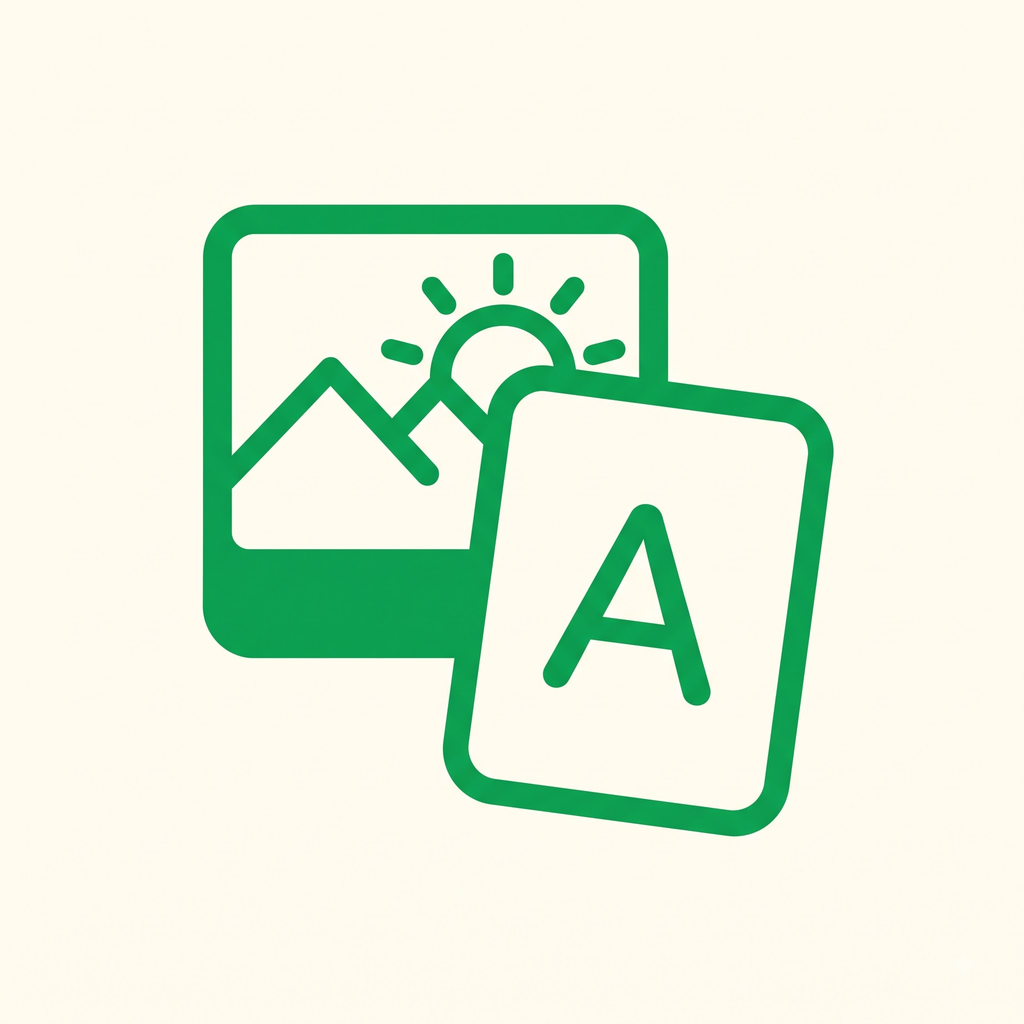
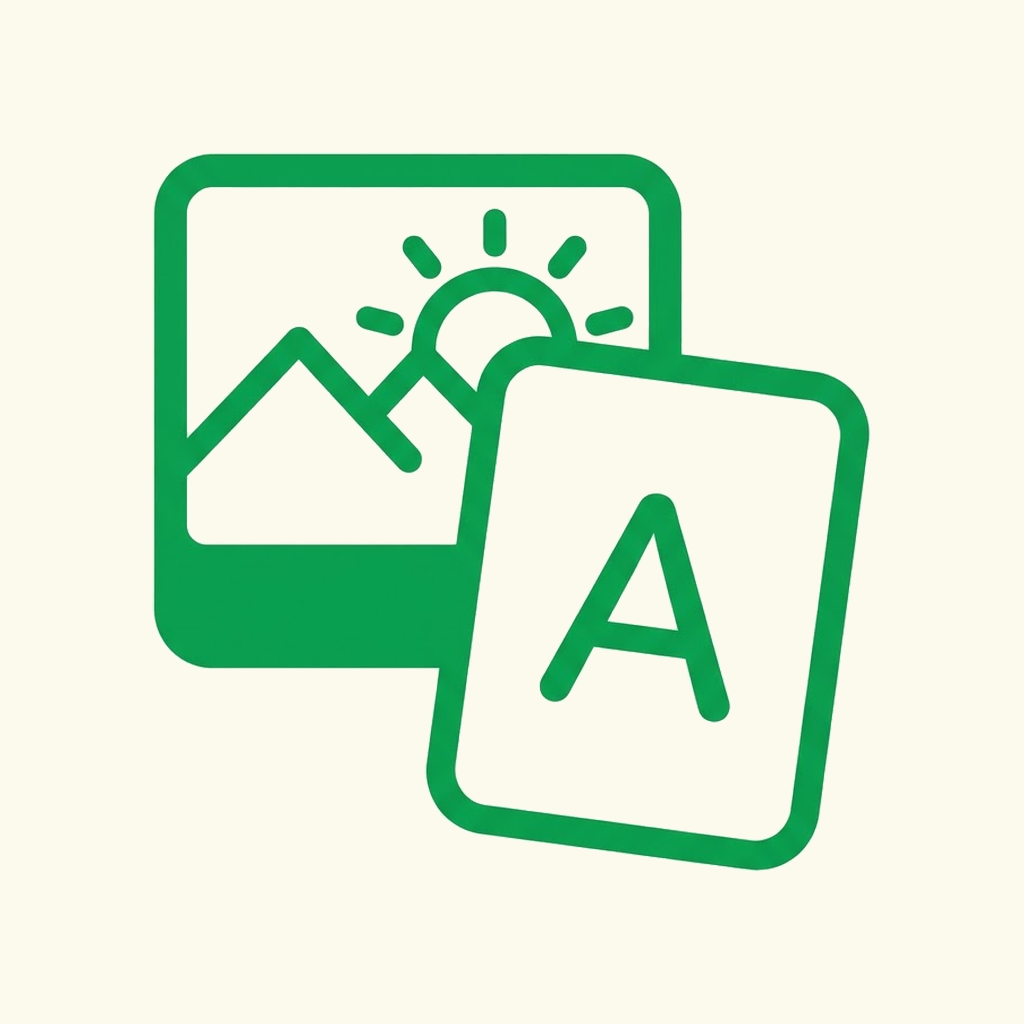
feat: 브랜딩 에셋 최적화, 스트릭 카드/UI 레이아웃 개선 및 E2E QA 검증 완료

Changed region(s): [[0.125, 0.125, 0.875, 0.875], [0.5312, 0.4688, 0.7188, 0.7188]]

diff --git a/src/features/home/components/ReviewWordsCard.tsx b/src/features/home/components/ReviewWordsCard.tsx
@@ -92,27 +92,29 @@ export const ReviewWordsCard: React.FC<ReviewWordsCardProps> = ({ theme, words, 
                   accessibilityLabel={word.wordTarget}
                   onLayout={(e) => idx === 0 && console.log('[LayoutTrace] first wordCardInner layout:', e.nativeEvent.layout)}
                 >
-                  <View style={[styles.statusDot, { backgroundColor: theme.primary }]} />
-                  <View style={styles.imageFrame} onLayout={(e) => idx === 0 && console.log('[LayoutTrace] first imageFrame layout:', e.nativeEvent.layout)}>
-                    {imageUrl ? (
-                      <Image
-                        source={{ uri: imageUrl }}
-                        style={styles.image}
-                        resizeMode="contain"
-                        onError={(event) => console.warn('[ReviewWordsCard IMAGE FAILED]', {
-                          imageUrl,
-                          error: event.nativeEvent?.error,
-                        })}
-                      />
-                    ) : null}
-                  </View>
-                  <View style={styles.textContent}>
-                    <Typography variant="cardTitle" numberOfLines={1} style={[styles.wordTargetTitle, { color: theme.textPrimary }]}>
-                      {word.wordTarget}
-                    </Typography>
-                    <Typography variant="caption" numberOfLines={1} style={[styles.wordNativeText, { color: theme.textSecondary }]}>
-                      {word.wordNative}
-                    </Typography>
+                  <View style={styles.wordCardContent}>
+                    <View style={[styles.statusDot, { backgroundColor: theme.primary }]} />
+                    <View style={styles.imageFrame} onLayout={(e) => idx === 0 && console.log('[LayoutTrace] first imageFrame layout:', e.nativeEvent.layout)}>
+                      {imageUrl ? (
+                        <Image
+                          source={{ uri: imageUrl }}
+                          style={styles.image}
+                          resizeMode="contain"
+                          onError={(event) => console.warn('[ReviewWordsCard IMAGE FAILED]', {
+                            imageUrl,
+                            error: event.nativeEvent?.error,
+                          })}
+                        />
+                      ) : null}
+                    </View>
+                    <View style={styles.textContent}>
+                      <Typography variant="cardTitle" numberOfLines={1} style={[styles.wordTargetTitle, { color: theme.textPrimary }]}>
+                        {word.wordTarget}
+                      </Typography>
+                      <Typography variant="caption" numberOfLines={1} style={[styles.wordNativeText, { color: theme.textSecondary }]}>
+                        {word.wordNative}
+                      </Typography>
+                    </View>
                   </View>
                 </Pressable>
               </View>
@@ -164,9 +166,11 @@ const styles = StyleSheet.create({
     position: 'relative',
   },
   wordCardInner: {
-    padding: 10,
     borderRadius: 16,
     overflow: 'hidden',
+  },
+  wordCardContent: {
+    padding: 10,
   },
   statusDot: {
     position: 'absolute',

diff --git a/src/shared/components/BottomTabBar.tsx b/src/shared/components/BottomTabBar.tsx
@@ -3,7 +3,8 @@ import { useTranslation } from 'react-i18next';
 import {
   View,
   StyleSheet,
-  TouchableOpacity,
+  Pressable,
+  Platform,
   ViewStyle,
 } from 'react-native';
 import { SafeAreaView } from 'react-native-safe-area-context';
@@ -42,11 +43,17 @@ export const BottomTabBar: React.FC<BottomTabBarProps> = React.memo(({
 }) => {
   const { t } = useTranslation();
   const theme = useThemeStore((state) => state.theme);
+  const isDarkMode = useThemeStore((state) => state.isDarkMode);
   const { isLandscape } = useWindowSizeClass();
 
   return (
-    <SafeAreaView edges={['bottom']} style={[styles.safeArea, { backgroundColor: theme.cardBackground }]}>
+    <SafeAreaView
+      edges={['bottom']}
+      pointerEvents="box-none"
+      style={[styles.safeArea, { backgroundColor: theme.cardBackground }]}
+    >
       <View
+        pointerEvents="box-none"
         style={[
           styles.container,
           isLandscape && styles.containerLandscape,
@@ -63,16 +70,24 @@ export const BottomTabBar: React.FC<BottomTabBarProps> = React.memo(({
           const iconColor = isActive ? theme.primary : theme.textSecondary;
 
           return (
-            <TouchableOpacity
+            <Pressable
               key={item.id}
-              style={styles.tabButton}
-              activeOpacity={0.7}
+              hitSlop={{ top: 8, bottom: 8, left: 6, right: 6 }}
+              style={({ pressed }) => [
+                styles.tabButton,
+                pressed && Platform.OS !== 'android' && { opacity: 0.7 },
+              ]}
+              android_ripple={{
+                color: isDarkMode ? 'rgba(255, 255, 255, 0.12)' : 'rgba(0, 0, 0, 0.08)',
+                borderless: true,
+                radius: 36,
+              }}
               onPress={() => onTabPress(item.id)}
               accessibilityRole="button"
               accessibilityState={{ selected: isActive }}
               accessibilityLabel={t(item.label)}
             >
-              <View style={styles.iconContainer}>
+              <View style={styles.iconContainer} pointerEvents="none">
                 <IconComponent
                   size={23}
                   color={iconColor}
@@ -91,10 +106,11 @@ export const BottomTabBar: React.FC<BottomTabBarProps> = React.memo(({
                     fontWeight: isActive ? '700' : '500',
                   },
                 ]}
+                pointerEvents="none"
               >
                 {t(item.label)}
               </Typography>
-            </TouchableOpacity>
+            </Pressable>
           );
         })}
       </View>
@@ -122,7 +138,7 @@ const styles = StyleSheet.create({
     borderTopLeftRadius: 24,
     borderTopRightRadius: 24,
     borderTopWidth: 1,
-    overflow: 'hidden',
+    overflow: Platform.OS === 'android' ? 'visible' : 'hidden',
     shadowColor: '#2F3437',
     shadowOffset: { width: 0, height: -4 },
     shadowOpacity: 0.06,

diff --git a/src/shared/components/Logo.tsx b/src/shared/components/Logo.tsx
@@ -1,47 +1,25 @@
 import React from 'react';
-import { ViewStyle } from 'react-native';
-import Svg, { Path } from 'react-native-svg';
+import { Image, ImageStyle, StyleProp } from 'react-native';
 
 interface LogoProps {
   width?: number;
   height?: number;
-  style?: ViewStyle;
+  style?: StyleProp<ImageStyle>;
+  resizeMode?: 'contain' | 'cover' | 'center' | 'stretch';
 }
 
 export const Logo: React.FC<LogoProps> = ({
   width = 180,
   height = 150,
   style,
+  resizeMode = 'contain',
 }) => {
   return (
-    <Svg
-      width={width}
-      height={height}
-      viewBox="0 0 475 401"
-      fill="none"
-      style={style}
-    >
-      <Path
-        d="M20 118V103C20 49 64 20 115 20H367C412 20 439 53 412 97L306 263C287 293 305 283 330 283H455"
-        stroke="#3F7D58"
-        strokeWidth={40}
-        strokeLinecap="round"
-        strokeLinejoin="round"
-      />
-      <Path
-        d="M20 118H131C156 118 165 138 151 159L63 294C41 328 54 380 112 380"
-        stroke="#3F7D58"
-        strokeWidth={40}
-        strokeLinecap="round"
-        strokeLinejoin="round"
-      />
-      <Path
-        d="M284 119L158 309C137 340 157 381 198 381H338C402 381 446 341 455 283"
-        stroke="#3F7D58"
-        strokeWidth={40}
-        strokeLinecap="round"
-        strokeLinejoin="round"
-      />
-    </Svg>
+    <Image
+      source={require('../../../assets/images/adaptive-icon.png')}
+      style={[{ width, height }, style]}
+      resizeMode={resizeMode}
+    />
   );
 };
+

diff --git a/src/shared/components/GuestAuthModal.tsx b/src/shared/components/GuestAuthModal.tsx
@@ -68,7 +68,7 @@ export const GuestAuthModal: React.FC<GuestAuthModalProps> = ({
           <View style={styles.bodySection}>
             <Logo width={120} height={80} />
             <Typography variant="cardTitle" align="center" style={styles.modalTitle}>
-              {title || t('auth.saveStreak')}
+              {title || t('auth.guestModalTitle')}
             </Typography>
             <Typography
               variant="caption"
@@ -76,7 +76,7 @@ export const GuestAuthModal: React.FC<GuestAuthModalProps> = ({
               align="center"
               style={styles.modalSubtitle}
             >
-              {subtitle || t('auth.signInPrompt')}
+              {subtitle || t('auth.guestModalSubtitle')}
             </Typography>
           </View>
 

diff --git a/src/features/study/screens/QuizScreen.tsx b/src/features/study/screens/QuizScreen.tsx
@@ -296,7 +296,7 @@ export const QuizScreen: React.FC<QuizScreenProps> = React.memo(({
   const handleBottomTabPress = useCallback(
     (tab: TabType) => {
       if (tab === 'home') router.push('/(tabs)');
-      else if (tab === 'study') router.push('/(tabs)/study');
+      else if (tab === 'study') router.push({ pathname: '/(tabs)/study', params: { tab: 'todays_study' } });
       else if (tab === 'review') router.push({ pathname: '/(tabs)/study', params: { tab: 'review' } });
       else if (tab === 'dictionary') router.push({ pathname: '/(tabs)/study', params: { tab: 'dictionary' } });
       else if (tab === 'profile') router.push('/(tabs)/profile');

diff --git a/src/features/profile/components/ProfileInfoCard.tsx b/src/features/profile/components/ProfileInfoCard.tsx
@@ -92,10 +92,10 @@ export const ProfileInfoCard: React.FC<ProfileInfoCardProps> = ({
             <Sparkles size={18} color="#5CB85C" style={{ marginRight: 8 }} />
             <View style={{ flex: 1 }}>
               <Typography variant="bodyLarge" color="primary">
-                {'Save Streak'}
+                {t('auth.guestProfileCardTitle')}
               </Typography>
               <Typography variant="caption" color="textSecondary">
-                {'Sign in to sync'}
+                {t('auth.guestProfileCardSubtitle')}
               </Typography>
             </View>
           </View>

diff --git a/src/features/home/hooks/useHomeScreen.ts b/src/features/home/hooks/useHomeScreen.ts
@@ -128,7 +128,7 @@ export function useHomeScreen() {
   const handleTabPress = useCallback(
     (tab: TabType) => {
       if (tab === 'home') return;
-      if (tab === 'study') router.push('/(tabs)/study');
+      if (tab === 'study') router.push({ pathname: '/(tabs)/study', params: { tab: 'todays_study' } });
       else if (tab === 'review') router.push({ pathname: '/(tabs)/study', params: { tab: 'review' } });
       else if (tab === 'dictionary') router.push({ pathname: '/(tabs)/study', params: { tab: 'dictionary' } });
       else if (tab === 'profile') router.push('/(tabs)/profile');

diff --git a/src/features/profile/hooks/useProfileScreen.ts b/src/features/profile/hooks/useProfileScreen.ts
@@ -192,7 +192,9 @@ export function useProfileScreen() {
     (tab: TabType) => {
       if (tab === 'profile') return;
       if (tab === 'home') router.push('/(tabs)');
-      else if (tab === 'study') router.push('/(tabs)/study');
+      else if (tab === 'study') router.push({ pathname: '/(tabs)/study', params: { tab: 'todays_study' } });
+      else if (tab === 'review') router.push({ pathname: '/(tabs)/study', params: { tab: 'review' } });
+      else if (tab === 'dictionary') router.push({ pathname: '/(tabs)/study', params: { tab: 'dictionary' } });
     },
     [router]
   );

diff --git a/src/features/study/screens/StudyScreen.tsx b/src/features/study/screens/StudyScreen.tsx
@@ -110,7 +110,13 @@ const StudyHubScreen: React.FC = React.memo(() => {
         <View style={styles.tabletWrapper}>
           {/* Top Compact Header */}
           <CompactHeader
-            title={t('study.studyCenter')}
+            title={
+              activeSubTab === 'review'
+                ? t('bottomTab.review')
+                : activeSubTab === 'dictionary'
+                ? t('bottomTab.dictionary')
+                : t('bottomTab.study')
+            }
             onBackPress={() => router.push('/(tabs)')}
             showProgress={false}
           />

diff --git a/src/features/auth/screens/SplashScreen.tsx b/src/features/auth/screens/SplashScreen.tsx
@@ -208,9 +208,9 @@ export const SplashScreen: React.FC<SplashScreenProps> = ({
           ]}
         >
           <Image
-            source={require('../../../assets/images/hero_illustration.webp')}
+            source={require('../../../../assets/images/adaptive-icon.png')}
             style={styles.illustration}
-            resizeMode="cover"
+            resizeMode="contain"
           />
         </Animated.View>
 

diff --git a/src/features/home/screens/HomeScreen.tsx b/src/features/home/screens/HomeScreen.tsx
@@ -158,7 +158,7 @@ export const HomeScreen: React.FC = React.memo(() => {
             <TodayWordCard
               theme={theme}
               word={todayWord}
-              onPress={() => router.push('/(tabs)/study')}
+              onPress={() => router.push({ pathname: '/(tabs)/study', params: { tab: 'todays_study' } })}
             />
           )}
 

diff --git a/src/features/study/components/CompactHeader.tsx b/src/features/study/components/CompactHeader.tsx
@@ -99,6 +99,7 @@ const styles = StyleSheet.create({
     marginHorizontal: 8,
     fontWeight: '700',
     fontSize: 18,
+    textAlign: 'center',
   },
   progressGroup: {
     flexDirection: 'row',
